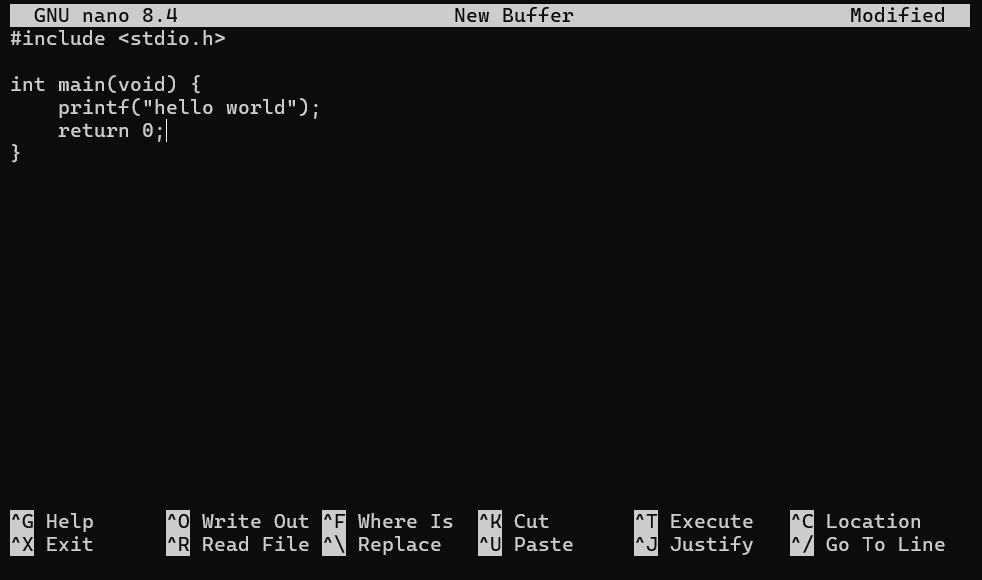
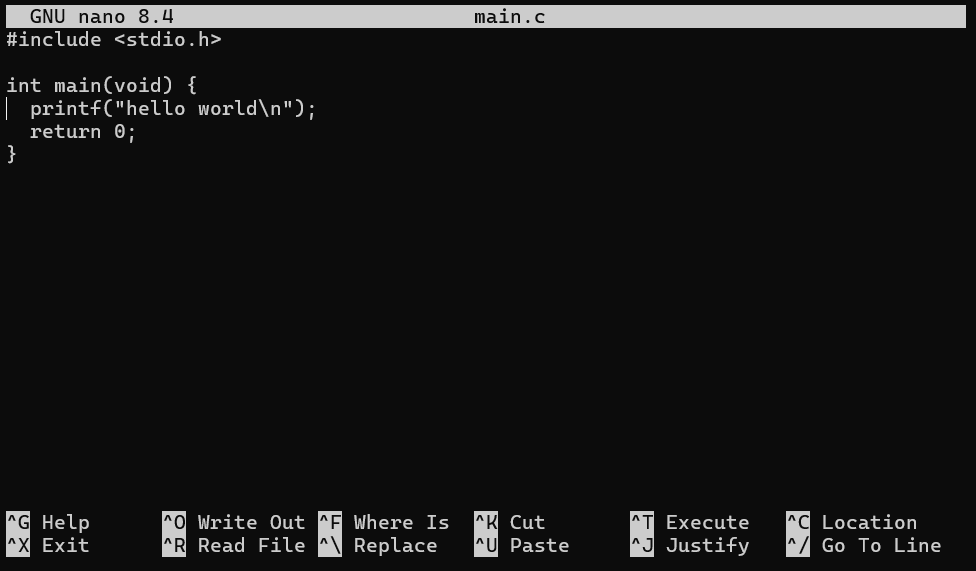
readme調整

diff --git a/README.md b/README.md
@@ -45,7 +45,7 @@ OK: 464 MiB in 28 packages
 # ls
 a.out  main.c
 # ./a.out
-hello, world
+hello world
 ```
 
 
